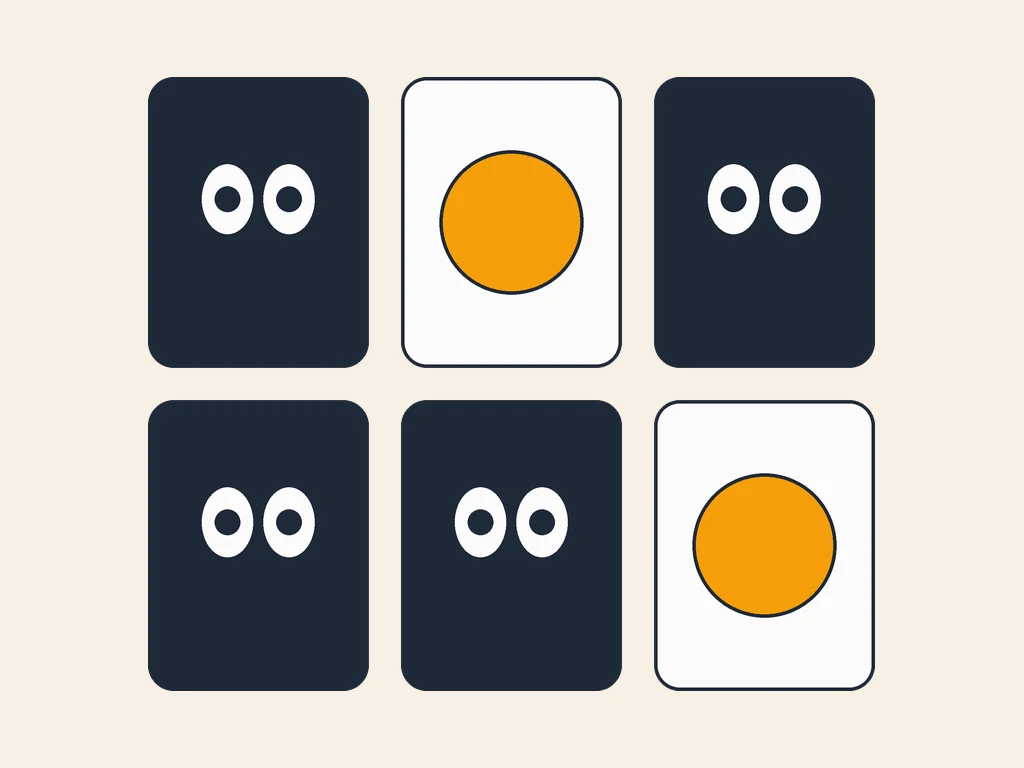
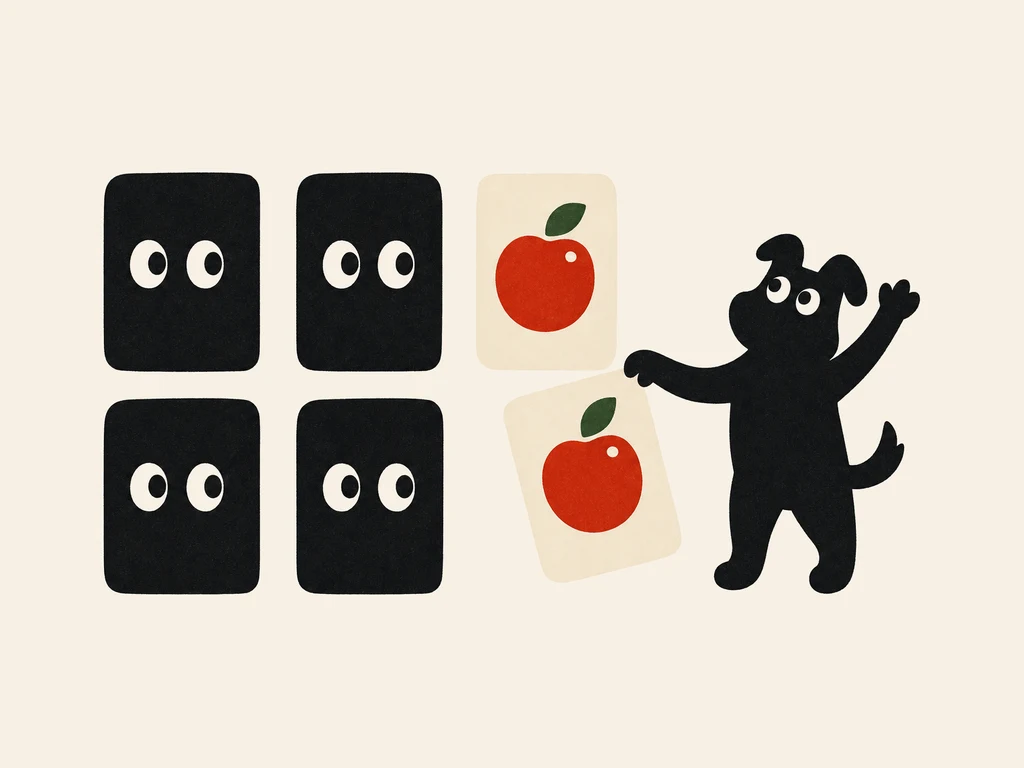
feat(memory): 封面改用 gpt-image-2 重畫，卡背黑色對齊阿黃、翻開的牌換成紅蘋果
- 卡背從 gray-800 改成阿黃同一個 #0D0D0D，翻開的黃圈改成 brand-red 蘋果配 brand-green 葉子
- 生圖走 OpenAI images/edits，以抽籤機封面當風格參考；key 在鑰匙圈 openai-api-key-for-image
- scripts/gen-memory-cover.py 取代 PIL 手畫的 gen-new-covers.py，含底色正規化與置中裁切

Claude-Session: https://claude.ai/code/session_01GuN3DyohRHvyktJEthNcbH

diff --git a/scripts/gen-memory-cover.py b/scripts/gen-memory-cover.py
@@ -1,0 +1,100 @@
+"""用 OpenAI gpt-image-2 產生 memory 封面（warm 版），以抽籤機封面當風格參考圖。
+
+API key 放 macOS 鑰匙圈：security add-generic-password -s openai-api-key-for-image -a openai -w <key>
+生出來的圖底色跟專案米色差幾階、也不是 4:3，所以事後把接近底色的像素統一成 BG、
+裁到圖形 bbox 置中成 1024x768，cutout-covers.py 才去得掉背景。
+用法：python3 scripts/gen-memory-cover.py && python3 scripts/cutout-covers.py
+"""
+
+import base64
+import json
+import pathlib
+import subprocess
+import sys
+import urllib.request
+
+import numpy as np
+from PIL import Image
+
+BG = (247, 240, 229)
+SIZE = (1024, 768)
+MARGIN = 0.10
+BG_TOL = 20  # 生成圖底色抖動 <1/通道，翻開的米白卡牌距離 >30，取中間
+OUT = pathlib.Path("public/images/covers/warm/memory.webp")
+REF = pathlib.Path("public/images/covers/warm/lottery.webp")
+
+PROMPT = """Redraw this scene in EXACTLY the same illustration style as the attached reference image (same flat risograph-print look, same black dog mascot Barkley, same cream paper background).
+
+THE ONE STYLE RULE: every object is ONE SOLID FLAT SHAPE with details KNOCKED OUT of it in cream. No outlines, no strokes, no gradients, no shadows, no 3D, no highlights. Chunky, slightly hand-drawn edges. Subtle print grain on every filled shape.
+
+COLORS, flat, exactly these: cream #F8F0E3 · black #0D0D0D · red #CB2108 · green #2C5427 · gold #F8B003 · blue #02569B.
+Barkley's black and the card backs' black are the SAME #0D0D0D.
+
+SCENE — a memory card matching game:
+Six rounded playing cards laid on the paper in a 3x2 grid, cards fairly large.
+Four cards are FACE DOWN: each is one solid black #0D0D0D rounded rectangle with two big cream eyes knocked out of it (two cream ovals, each with a black round pupil), like Barkley's own eyes — the card back is a little Barkley face.
+Two cards are FACE UP: each is a cream #F8F0E3 rounded rectangle showing ONE solid red #CB2108 apple (a chunky round apple shape with a small solid green #2C5427 leaf, a tiny cream highlight dot knocked out is allowed). The two apples are identical: a matched pair.
+Barkley STANDS UPRIGHT on his hind legs at the right side, using his front paws as hands: one paw is flipping over the last face-up card, the other paw is raised in delight. Pure black silhouette with two cream eyes, fully inside the frame, not cropped. Keep a clear gap between his arms and torso; his paws must read clearly on top of the cream card.
+
+CANVAS: landscape, cream #F8F0E3 background edge to edge, generous empty paper around everything. NO TEXT anywhere."""
+
+
+def keychain_key() -> str:
+    return subprocess.check_output(
+        ["security", "find-generic-password", "-s", "openai-api-key-for-image", "-w"]
+    ).decode().strip()
+
+
+def generate(model: str = "gpt-image-2") -> Image.Image:
+    boundary = "----teachbox-cover"
+    ref_png = pathlib.Path("/tmp/memory-ref.png")
+    Image.open(REF).convert("RGB").save(ref_png)
+    fields = {"model": model, "prompt": PROMPT, "size": "1536x1024", "quality": "high", "n": "1"}
+    body = b""
+    for k, v in fields.items():
+        body += f'--{boundary}\r\nContent-Disposition: form-data; name="{k}"\r\n\r\n{v}\r\n'.encode()
+    body += (
+        f'--{boundary}\r\nContent-Disposition: form-data; name="image[]"; filename="ref.png"\r\n'
+        "Content-Type: image/png\r\n\r\n"
+    ).encode() + ref_png.read_bytes() + b"\r\n"
+    body += f"--{boundary}--\r\n".encode()
+    req = urllib.request.Request(
+        "https://api.openai.com/v1/images/edits",
+        data=body,
+        method="POST",
+        headers={
+            "Authorization": f"Bearer {keychain_key()}",
+            "Content-Type": f"multipart/form-data; boundary={boundary}",
+        },
+    )
+    with urllib.request.urlopen(req, timeout=300) as r:
+        res = json.load(r)
+    raw = pathlib.Path("/tmp/memory-raw.png")
+    raw.write_bytes(base64.b64decode(res["data"][0]["b64_json"]))
+    print("raw ->", raw, res.get("usage"))
+    return Image.open(raw).convert("RGB")
+
+
+def fit(im: Image.Image) -> Image.Image:
+    """底色統一成 BG、裁到圖形 bbox、等比縮到留白 MARGIN、置中貼上米色底。"""
+    a = np.asarray(im).astype(int)
+    corner = np.median(np.concatenate([a[:8, :8].reshape(-1, 3), a[-8:, -8:].reshape(-1, 3)]), axis=0)
+    d = np.abs(a - corner).sum(axis=2)
+    a[d < BG_TOL] = BG
+    ys, xs = np.where(d >= BG_TOL)
+    art = Image.fromarray(a.astype(np.uint8)).crop((xs.min(), ys.min(), xs.max() + 1, ys.max() + 1))
+    box = (int(SIZE[0] * (1 - 2 * MARGIN)), int(SIZE[1] * (1 - 2 * MARGIN)))
+    sc = min(box[0] / art.width, box[1] / art.height)
+    art = art.resize((int(art.width * sc), int(art.height * sc)), Image.LANCZOS)
+    out = Image.new("RGB", SIZE, BG)
+    out.paste(art, ((SIZE[0] - art.width) // 2, (SIZE[1] - art.height) // 2))
+    return out
+
+
+if __name__ == "__main__":
+    src = Image.open(sys.argv[1]).convert("RGB") if len(sys.argv) > 1 else generate()
+    png = OUT.with_suffix(".png")
+    fit(src).save(png)
+    subprocess.run(["cwebp", "-quiet", "-q", "88", str(png), "-o", str(OUT)], check=True)
+    png.unlink()
+    print("done", OUT)
